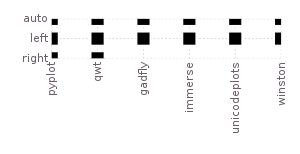
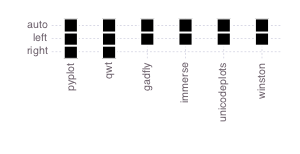
added pyplot scales
Former-commit-id: f3734d4c64e61e379b2876f534943cf2c7d3a672

diff --git a/img/supported/supported.md b/img/supported/supported.md
@@ -14,6 +14,10 @@
 
 ![styles](Plots.supportGraphStyles.png)
 
+## Supported scales
+
+![scales](Plots.supportGraphScales.png)
+
 ## Supported axes
 
 ![axes](Plots.supportGraphAxes.png)
